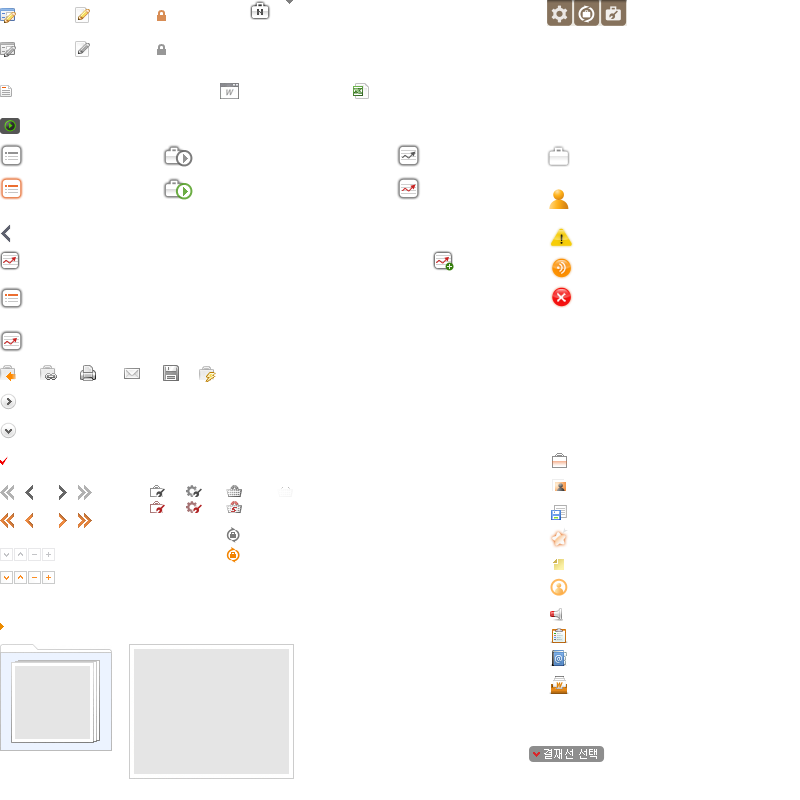
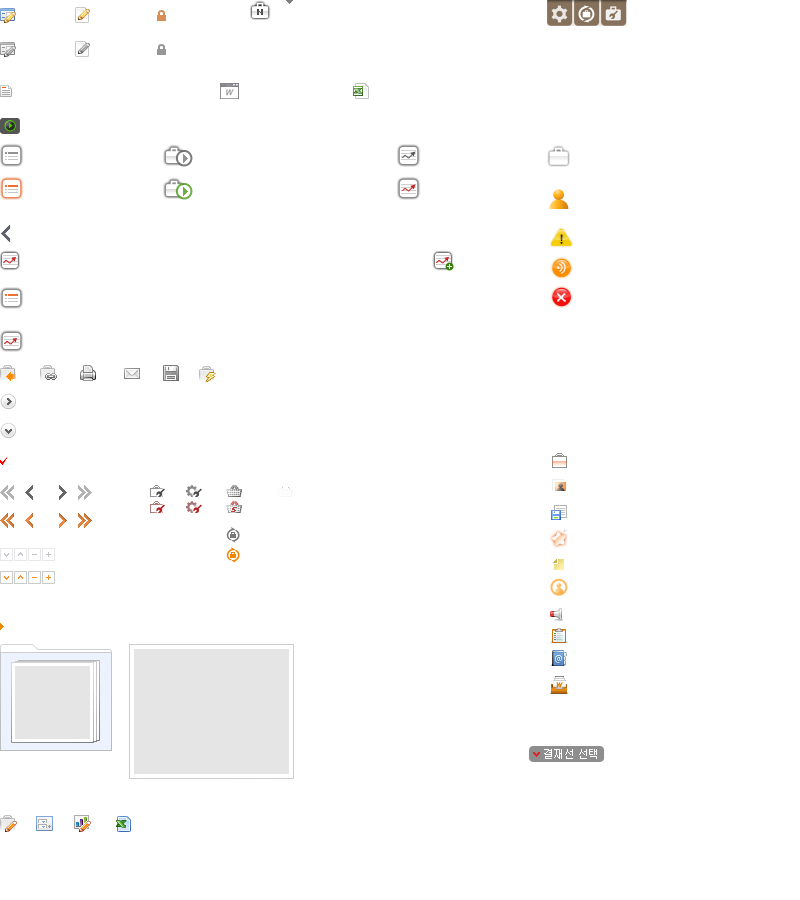
css

diff --git a/WebContent/css/black/detail.css b/WebContent/css/black/detail.css
@@ -245,6 +245,10 @@ a:hover.btn_arr_next2 {background: url("../../images/body_icon.png") no-repeat -
 .icon_approval_w {background: url("../../images/body_icon.png") no-repeat scroll -199px -364px transparent; height:18px; width:17px; display:inline-block}
 .icon_print_w {background: url("../../images/body_icon.png") no-repeat scroll -80px -364px transparent; height:18px; width:16px; display:inline-block}
 .icon_mail_w {background: url("../../images/body_icon.png") no-repeat scroll -124px -364px transparent; height:18px; width:17px; display:inline-block}
+.icon_report_edit a {background: url("../../images/body_icon.png") no-repeat scroll -74px -814px transparent; height:18px; width:17px; display:inline-block}
+.icon_filter_edit a {background: url("../../images/body_icon.png") no-repeat scroll -36px -814px transparent; height:18px; width:17px; display:inline-block; margin:0 5px 0 0}
+.icon_work_create a {background: url("../../images/body_icon.png") no-repeat scroll 0 -814px transparent; height:18px; width:17px; display:inline-block; margin:0 5px 0 0}
+.icon_excel a {background: url("../../images/body_icon.png") no-repeat scroll -115px -814px transparent; height:18px; width:17px; display:inline-block}
 
 /* 사진 이미지 사이즈 */
 .profile_size_b {width:110px; height:110px}
@@ -267,7 +271,6 @@ a:hover.btn_arr_next2 {background: url("../../images/body_icon.png") no-repeat -
  */
 .icon_btn_video {background: url("../../images/body_icon.png") no-repeat scroll 0 -118px transparent; height:16px; display:inline-block; padding: 0 0 0 23px}
 .icon_btn_webex {background: url("../../images/body_icon.png") no-repeat scroll -219px -83px transparent; height:16px; display:inline-block; padding: 0 0 0 24px}
-.icon_btn_excel {background: url("../../images/body_icon.png") no-repeat scroll -352px -83px transparent; height:16px; display:inline-block; padding: 0 0 0 19px}
 .icon_btn_newwork {background: url("../../images/body_icon.png") no-repeat scroll -249px 0 transparent; height:20px; display:inline-block; padding: 0 0 0 24px}
 .icon_btn_arrb {background: url("../../images/body_icon.png") no-repeat scroll -286px 0 transparent; height:4px; display:inline-block}
 .icon_btn_stat {background: url("../../images/body_icon.png") no-repeat scroll 0 -251px transparent; height:21px; display:inline-block; padding: 0 0 0 24px}
@@ -280,13 +283,13 @@ a:hover.btn_arr_next2 {background: url("../../images/body_icon.png") no-repeat -
 .t_text_s11 {margin:30px 0 0 28px; text-align:center; width:110px}
 
 /* Icon button style */
-.title_line_btns {float:right; position:relative; top:-3px}
+.title_line_btns {float:right; position:relative}
 .title_line_options {float:left; position:relative; top:0}
 .title_line_options select {margin:0}
 .txt_btn .title_line_btns {margin-right:10px}
-.icon_btn_edit {background: url("../../images/bgBtnIcons.gif") 0 -21px no-repeat;height:21px;display:inline-block;padding-left:22px}
+/* .icon_btn_edit {background: url("../../images/bgBtnIcons.gif") 0 -21px no-repeat;height:21px;display:inline-block;padding-left:22px} */
 .icon_btn_create {background: url("../../images/bgBtnIcons.gif") 0 -42px no-repeat;height:21px;display:inline-block;padding-left:22px}
-.icon_btn_excel {background: url("../../images/bgBtnIcons.gif") 0 -63px no-repeat;height:21px;display:inline-block;padding-left:22px}
+/* .icon_btn_excel {background: url("../../images/bgBtnIcons.gif") 0 -63px no-repeat;height:21px;display:inline-block;padding-left:22px} */
 .icon_btn_start {background: url("../../images/bgBtnIcons.gif") 0 -84px no-repeat;height:21px;display:inline-block;padding-left:5px}
 .icon_btn_tail {background: url("../../images/bgBtnIconsTail.gif") 100% 0 no-repeat;height:21px;display:inline-block;padding-right:5px;line-height:22px; font-size:11px}
 

diff --git a/WebContent/css/black/form.css b/WebContent/css/black/form.css
@@ -2,7 +2,7 @@
 /* CSS Document */
 .form_wrap form {line-height: 23px}
 .form_layout {padding:10px}
-.form_col {padding:0 5px}
+.form_col {padding:0 5px; line-height: 23px}
 .form_label, .form_value {float:left; margin-top: 3px}
 .form_label {color:#23579e}
 .form_value input[type="text"] {width:100%}
@@ -17,7 +17,7 @@
 .filter_section {overflow:hidden;}
 .filter_group {border:1px solid #e2e2e2; padding:5px; margin:0 0 3px 0;}
 .filter_group table { margin:0; text-align:right; } 
-.filter_area {padding:1px 0; clear:both; float:right;}
+.filter_area {clear:both; float:right; line-height: 22px}
 .filter_area .selb_size_fir {float:left; margin-right:5px;}
 .filter_area .selb_size_sec {float:left; margin-right:5px; width:120px;}
 .str_field {width:200px; text-align:left; float:left;}
@@ -46,10 +46,10 @@
 .form_check_box
 .form_select_box {min-width:100px;}
 
-.btn_plus_space {padding-bottom:8px; width:25px;}
-.btn_plus {background: url("../../images/btn_plus.gif") no-repeat 0 0 transparent; border: 0 none; cursor: pointer; height: 16px; padding: 0; width: 14px; display:inline-block}
+.btn_plus_space {padding:0 0 4px 5px; width:25px;}
+.btn_plus {background: url("../../images/btn_plus.gif") no-repeat 0 0 transparent; border: 0 none; cursor: pointer; height: 16px; padding: 0; width: 16px; display:inline-block}
 a .btn_plus:hover {background-position:0 -16px}
-.btn_tree_plus {background: url("../../images/btn_tree.png") no-repeat 0 0 transparent; border: 0 none; cursor: pointer; height: 14px; padding: 0; width: 14px; display:inline-block}
+.btn_tree_plus {background: url("../../images/btn_tree.png") no-repeat 0 0 transparent; border: 0 none; cursor: pointer; height: 14px; padding: 0; width: 16px; display:inline-block}
 a .btn_tree_plus:hover {background-position:0 -14px}
 .btn_tree_minus {background: url("../../images/btn_tree.png") no-repeat -17px 0 transparent; border: 0 none; cursor: pointer; height: 14px; padding: 0; width: 16px; display:inline-block}
 a .btn_tree_minus:hover {background-position:-17px -14px}

diff --git a/WebContent/css/black/pop.css b/WebContent/css/black/pop.css
@@ -34,11 +34,6 @@
 /* icon */
 .icon_pop_event {background: url("../../images/header_nico.png") no-repeat -195px -267px transparent; height:20px; display: inline-block;}
 
-/* close btn */
-a .pop_btn_x {background: url("../../images/pop_btn_x.gif") no-repeat scroll left top transparent; border: 0 none; cursor: pointer; height: 15px;
-    padding: 0; position: relative; right: 3px; top:2px; width: 15px; float: right;} 
-a:hover .pop_btn_x {background-color:#e5e5e5;}
-
 /* pop title */
 .pop_title_space {padding:15px 0 5px; overflow:hidden;border-bottom:2px solid #999}
 .pop_title_space .title_work {background: url("../../images/body_icon.png") no-repeat scroll -547px -146px transparent;font-size:14px; font-weight:bold; padding: 0 8px 0 28px; float:left; line-height: 20px;}

diff --git a/WebContent/css/black/layout.css b/WebContent/css/black/layout.css
@@ -346,6 +346,7 @@ li.comment_list:hover {background-color:#fffccd; cursor:pointer}
 .up {border:1px solid #c7c7c7; padding: 0; vertical-align:middle; background-color: #FFF} /* 높이가 있는 라인박스 쓸때 */
 .fieldline {border:1px solid #c7c7c7; left:0px; margin-top:0; background: none repeat scroll 0 0 #FFFFFF; vertical-align:middle; text-align:left; width:100%} /* 한줄 input, text박스 쓸때 */
 .up_padding {padding:0; position:relative; width:100%}
+.fieldline.community_names {line-height:17px}
 
 .up_form {position:absolute}
 .up_point {background: url("../../images/up_point.gif") no-repeat left top; width:11px; height:7px}
